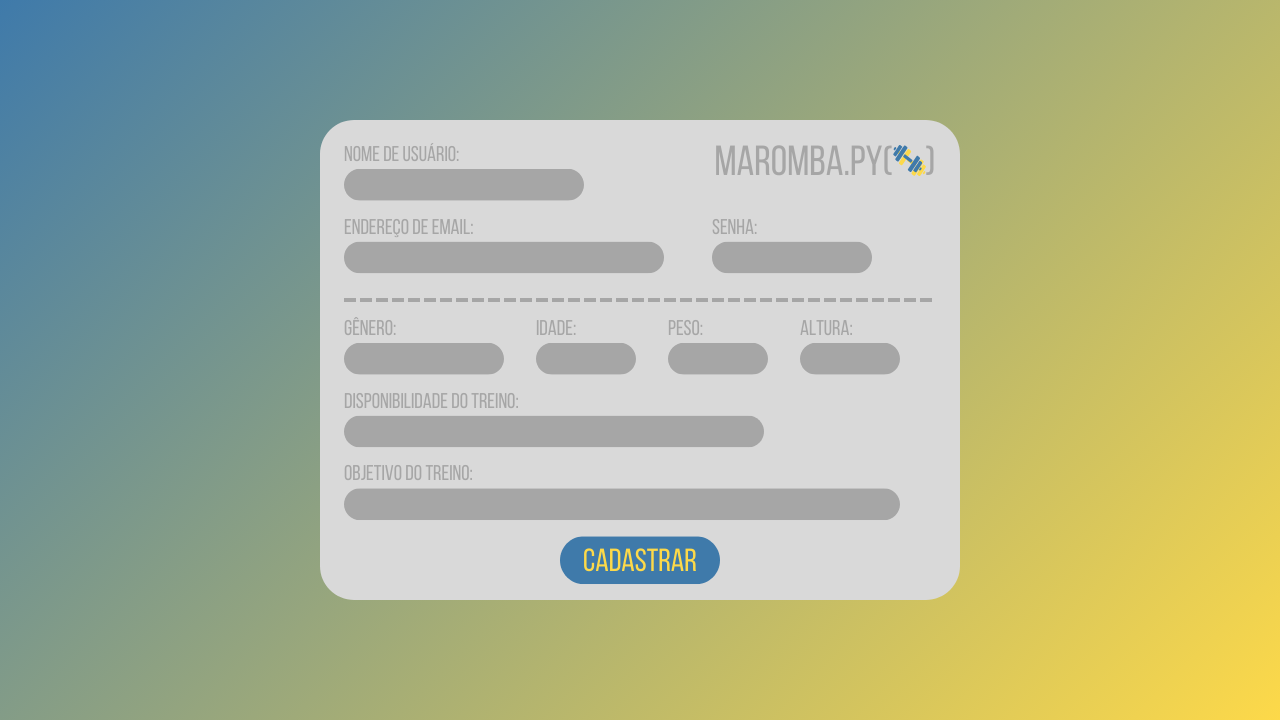
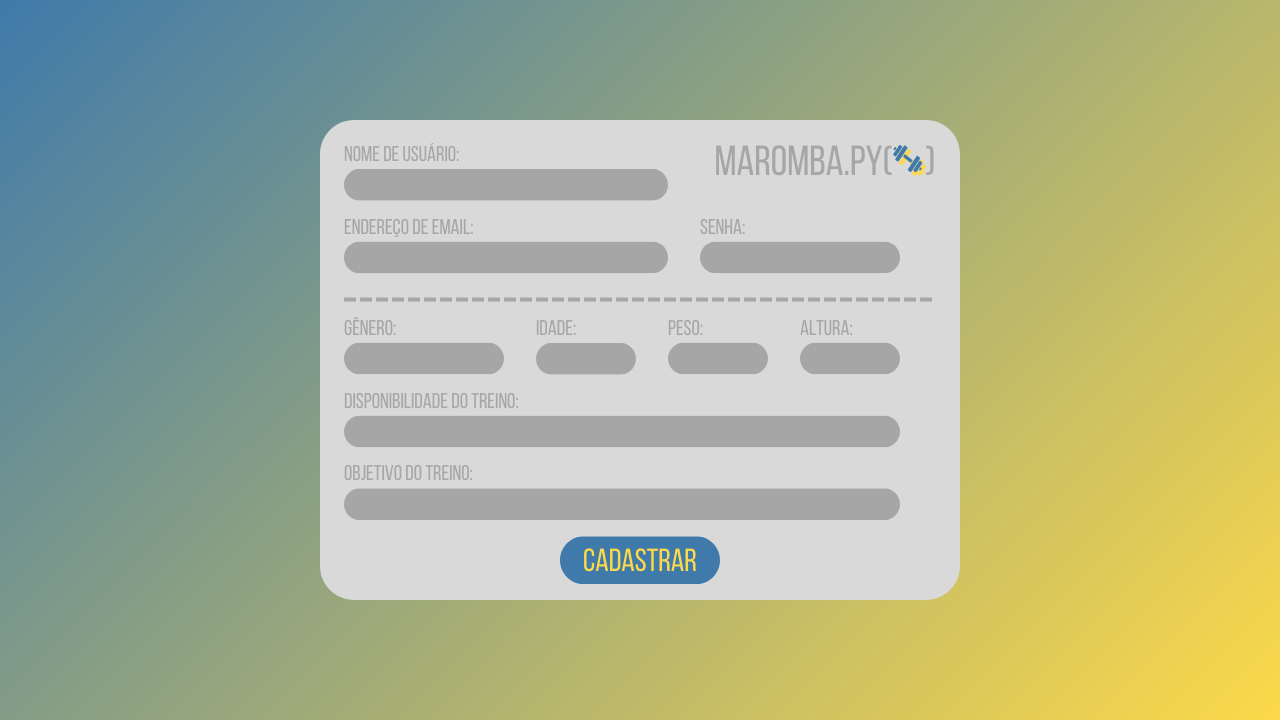
otimizei o código e comecei a trabalhar na tela de loading

diff --git a/maromba.py b/maromba.py
@@ -1,239 +1,162 @@
 from graphics import *
 
 
-def cria_input(x, y, width, red, green, blue):
+def cria_input(x, y, width, size):
     entrada = Entry(Point(x, y), width)
-    entrada.setFill(color_rgb(red, green, blue))
+    entrada.setFill(color_rgb(166, 166, 166))
+    entrada.setTextColor('White'), entrada.setSize(size)
     entrada.draw(janela)
     return entrada
 
 
 # variaveis
 largura, altura = 1280, 720
-centro = Point(640, 360)
-Tela_Login = True
-Tela_Cadastro = False
-Tela_Loading = False
-senha_flag = False
-senha_text = False
+centro = Point(largura/2, altura/2)
 username_flag = False
-username_text = False
+senha_flag = False
+email_flag = False
+genero_flag = False
+idade_flag = False
+peso_flag = False
+altura_flag = False
+disponibilidade_flag = False
+objetivo_flag = False
 
 dados = dict(Username="", Senha="")
 cadastros = [
-    dict(Username="adm2023", Senha="aed1"),
-    dict(Username="dono do curso", Senha="pinheiro")
+    dict(Username="adm2023", Senha="aed1")
 ]
 
 # janela
 janela = GraphWin('Maromba.Py', largura, altura)
 
-# login
+# tela de login
+Tela_Login = True
 login = Image(centro, 'MENU.png')
 login.draw(janela)
-
 while Tela_Login:
 
+    # checando mouse
     pos_mouse = janela.checkMouse()
-
     if pos_mouse is not None:
         pos_mouseX = pos_mouse.getX()
         pos_mouseY = pos_mouse.getY()
 
-        # Clicando na caixa do usuario
-        if 528 <= pos_mouseX <= 780 and 296 <= pos_mouseY <= 344:
-            username = cria_input(651, 320, 20, 166, 166, 166)
-            username.setTextColor('White'), username.setSize(16)
+        # clicando na caixa de usuario
+        if 528 <= pos_mouseX <= 782 and 296 <= pos_mouseY <= 344:
+            username = cria_input(655, 320, 21, 16)
             username_flag = True
 
-        # Verificando se há texto
-        if username_flag and username.getText() != "":
-            username_text = True
-
-        # Clicando na tela da senha
-        if 528 <= pos_mouseX <= 780 and 360 <= pos_mouseY <= 408:
-            senha = cria_input(651, 385, 20, 166, 166, 166)
-            senha.setTextColor('White'), senha.setSize(16)
+        # clicando na caixa de senha
+        if 528 <= pos_mouseX <= 782 and 360 <= pos_mouseY <= 408:
+            senha = cria_input(655, 385, 21, 16)
             senha_flag = True
 
-        # Verificando se há texto
-        if senha_flag and senha.getText() != "":
-            senha_text = True
+        # clicando no botão de login
+        if 560 <= pos_mouseX <= 720 and 424 <= pos_mouseY <= 470:
 
-        # Clicando no botão de login
-        if 570 <= pos_mouseX <= 710 and 424 <= pos_mouseY <= 472:
-
-            if senha_text and username_text:
+            # checando se senha e username foram preenchidos
+            if senha_flag and senha.getText() != "" and username_flag and username.getText() != "":
                 dados["Username"] = username.getText().lower()
                 dados["Senha"] = senha.getText().lower()
 
+                # checando login
                 for pessoa in cadastros:
                     if pessoa == dados:
                         print("Tem login")
                     else:
                         print("Não tem")
-                print(senha_text)
-                print(username_text)
                 print(cadastros)
             else:
-                print("Caio")
-                # Erro de não digitar nada
+                print("Caio")  # erro de não digitar nada
 
-        # Clicando para criar cadastro
-        if 599 <= pos_mouseX <= 661 and 488 <= pos_mouseY <= 512:
-            Tela_Login = False
+        # clicando no botão de cadastro
+        if 599 <= pos_mouseX <= 681 and 488 <= pos_mouseY <= 512:
             if senha_flag:
                 senha.undraw()
                 senha_flag = False
             if username_flag:
                 username.undraw()
                 username_flag = False
+            Tela_Login = False
             login.undraw()
-            Tela_Cadastro = True
-            cadastro = Image(centro, 'CADASTRO.png')
-            cadastro.draw(janela)
-    else:
-        pass
+
 print(dados)
 
-senha_flag = False
-senha_text = False
-username_flag = False
-username_text = False
-email_flag = False
-email_text = False
-genero_flag = False
-genero_text = False
-idade_flag = False
-idade_text = False
-peso_flag = False
-peso_text = False
-altura_flag = False
-altura_text = False
-disponibilidade_flag = False
-disponibilidade_text = False
-objetivo_flag = False
-objetivo_text = False
-
+# tela de cadastro
+Tela_Cadastro = True
+cadastro = Image(centro, 'CADASTRO.png')
+cadastro.draw(janela)
 while Tela_Cadastro:
-    pos_mouse = janela.checkMouse()
 
+    # checando mouse
+    pos_mouse = janela.checkMouse()
     if pos_mouse is not None:
         pos_mouseX = pos_mouse.getX()
         pos_mouseY = pos_mouse.getY()
 
-        # Caixa do Username
-        if 344 <= pos_mouseX <= 584 and 168 <= pos_mouseY <= 200:
-            username = cria_input(464, 184, 23, 166, 166, 166)
-            username.setTextColor('White'), username.setSize(12)
+        # clicando na caixa de username
+        if 344 <= pos_mouseX <= 668 and 168 <= pos_mouseY <= 200:
+            username = cria_input(504, 184, 33, 12)
             username_flag = True
 
-        # Verificando texto no username
-        if username_flag and username.getText() != "":
-            username_text = True
-        else:
-            username_text = False
-
-        # Caixa de e-mail
-        if 348 <= pos_mouseX <= 668 and 241 <= pos_mouseY <= 273:
-            email = cria_input(504, 257, 32, 166, 166, 166)
-            email.setTextColor("white"), email.setSize(12)
+        # clicando na caixa de e-mail
+        if 344 <= pos_mouseX <= 668 and 241 <= pos_mouseY <= 273:
+            email = cria_input(504, 257, 33, 12)
             email_flag = True
 
-        # Verificando se há texto no email
-        if email_flag and email.getText() != "":
-            email_text = True
-        else:
-            email_text = False
-
-        # Senha
-        if 712 <= pos_mouseX <= 872 and 241 <= pos_mouseY <= 273:
-            senha = cria_input(792, 257, 14, 166, 166, 166)
-            senha.setTextColor("white"), senha.setSize(12)
+        # clicando na caixa de senha
+        if 700 <= pos_mouseX <= 900 and 241 <= pos_mouseY <= 273:
+            senha = cria_input(800, 257, 19, 12)
             senha_flag = True
 
-        # Verificando se há texto na senha
-        if senha_flag and senha.getText() != "":
-            senha_text = True
-        else:
-            senha_text = False
-
-        # Gênero
+        # clicando na caixa de gênero
         if 344 <= pos_mouseX <= 504 and 342 <= pos_mouseY <= 374:
-            genero = cria_input(424, 358, 14, 166, 166, 166)
-            genero.setTextColor('white'), genero.setSize(12)
+            genero = cria_input(424, 358, 15, 12)
             genero_flag = True
 
-        # Verificando se há texto em genero
-        if genero_flag and genero.getText() != "":
-            genero_text = True
-
-        # Idade
+        # clicando na caixa de idade
         if 536 <= pos_mouseX <= 636 and 342 <= pos_mouseY <= 374:
-            idade = cria_input(586, 358, 8, 166, 166, 166)
-            idade.setTextColor('white'), idade.setSize(12)
+            idade = cria_input(586, 358, 8, 12)
             idade_flag = True
 
-        # Verificando se há texto em idade
-        if idade_flag and idade.getText() != "":
-            idade_text = True
-
-        # Peso
+        # clicando na caixa de peso
         if 668 <= pos_mouseX <= 768 and 342 <= pos_mouseY <= 374:
-            peso = cria_input(718, 358, 8, 166, 166, 166)
-            peso.setTextColor('white'), peso.setSize(12)
+            peso = cria_input(718, 358, 8, 12)
             peso_flag = True
 
-        # Verificando se há texto em peso
-        if peso_flag and peso.getText() != "":
-            peso_text = True
-
-        # Altura
+        # clicando na caixa de altura
         if 800 <= pos_mouseX <= 900 and 342 <= pos_mouseY <= 374:
-            altura = cria_input(850, 358, 8, 166, 166, 166)
-            altura.setTextColor('white'), altura.setSize(12)
+            altura = cria_input(850, 358, 8, 12)
             altura_flag = True
 
-        # Verificando se há texto em altura
-        if altura_flag and altura.getText() != "":
-            altura_text = True
-
-        # Disponibilidade
-        if 344 <= pos_mouseX <= 764 and 415 <= pos_mouseY <= 447:
-            disponibilidade = cria_input(554, 431, 43, 166, 166, 166)
-            disponibilidade.setTextColor('white'), disponibilidade.setSize(12)
+        # clicando na caixa de disponibilidade
+        if 344 <= pos_mouseX <= 900 and 415 <= pos_mouseY <= 447:
+            disponibilidade = cria_input(622, 431, 59, 12)
             disponibilidade_flag = True
 
-        # Verificando se há texto em disponibilidade
-        if disponibilidade_flag and disponibilidade.getText() != "":
-            disponibilidade_text = True
-
-        # Objetivo
+        # clicando na caixa de objetivo
         if 344 <= pos_mouseX <= 900 and 488 <= pos_mouseY <= 520:
-            objetivo = cria_input(622, 504, 58, 166, 166, 166)
-            objetivo.setTextColor('white'), objetivo.setSize(12)
+            objetivo = cria_input(622, 504, 59, 12)
             objetivo_flag = True
 
-        # Verificando se há texto em objetivo
-        if objetivo_flag and objetivo.getText() != "":
-            objetivo_text = True
+        # clicando no botão de cadastro
+        if 560 < pos_mouseX < 720 and 536 < pos_mouseY < 584:
+            if username_flag and username.getText() != "" and senha_flag and senha.getText() != "" and email_flag and email.getText() != "" and genero_flag and genero.getText() != "" and idade_flag and idade.getText() != "" and peso_flag and peso.getText() != "" and altura_flag and altura.getText() != "" and disponibilidade_flag and disponibilidade.getText() != "" and objetivo_flag and objetivo.getText() != "":
+                username.undraw(), senha.undraw(), email.undraw(), genero.undraw(), idade.undraw(), peso.undraw(), altura.undraw(), disponibilidade.undraw(), objetivo.undraw()
+                Tela_Cadastro = False
+                cadastro.undraw()
 
-            # Clicando no botão de cadastro
-            if 560 < pos_mouseX < 720 and 536 < pos_mouseY < 584:
-                if senha_text and username_text and email_text and genero_text and idade_text and peso_text and altura_text and disponibilidade_text and objetivo_text:
-                    if senha_flag:
-                        senha.undraw()
-                        senha_flag = False
-                    if username_flag:
-                        username.undraw()
-                        username_flag = False
-                    if email_flag:
-                        email.undraw()
-                        email_flag = False
+# tela de loading
+Tela_Loading = True
+loading = Image(centro, 'LOADING.png')
+loading.draw(janela)
+while Tela_Loading:
 
-                    Tela_Cadastro = False
-                    cadastro.undraw()
-                    Tela_Loading = True
-                    loading = Image(centro, 'LOADING.png')
-                    loading.draw(janela)
+    # checando mouse
+    pos_mouse = janela.checkMouse()
+    if pos_mouse is not None:
+        pos_mouseX = pos_mouse.getX()
+        pos_mouseY = pos_mouse.getY()
+
 janela.close()
